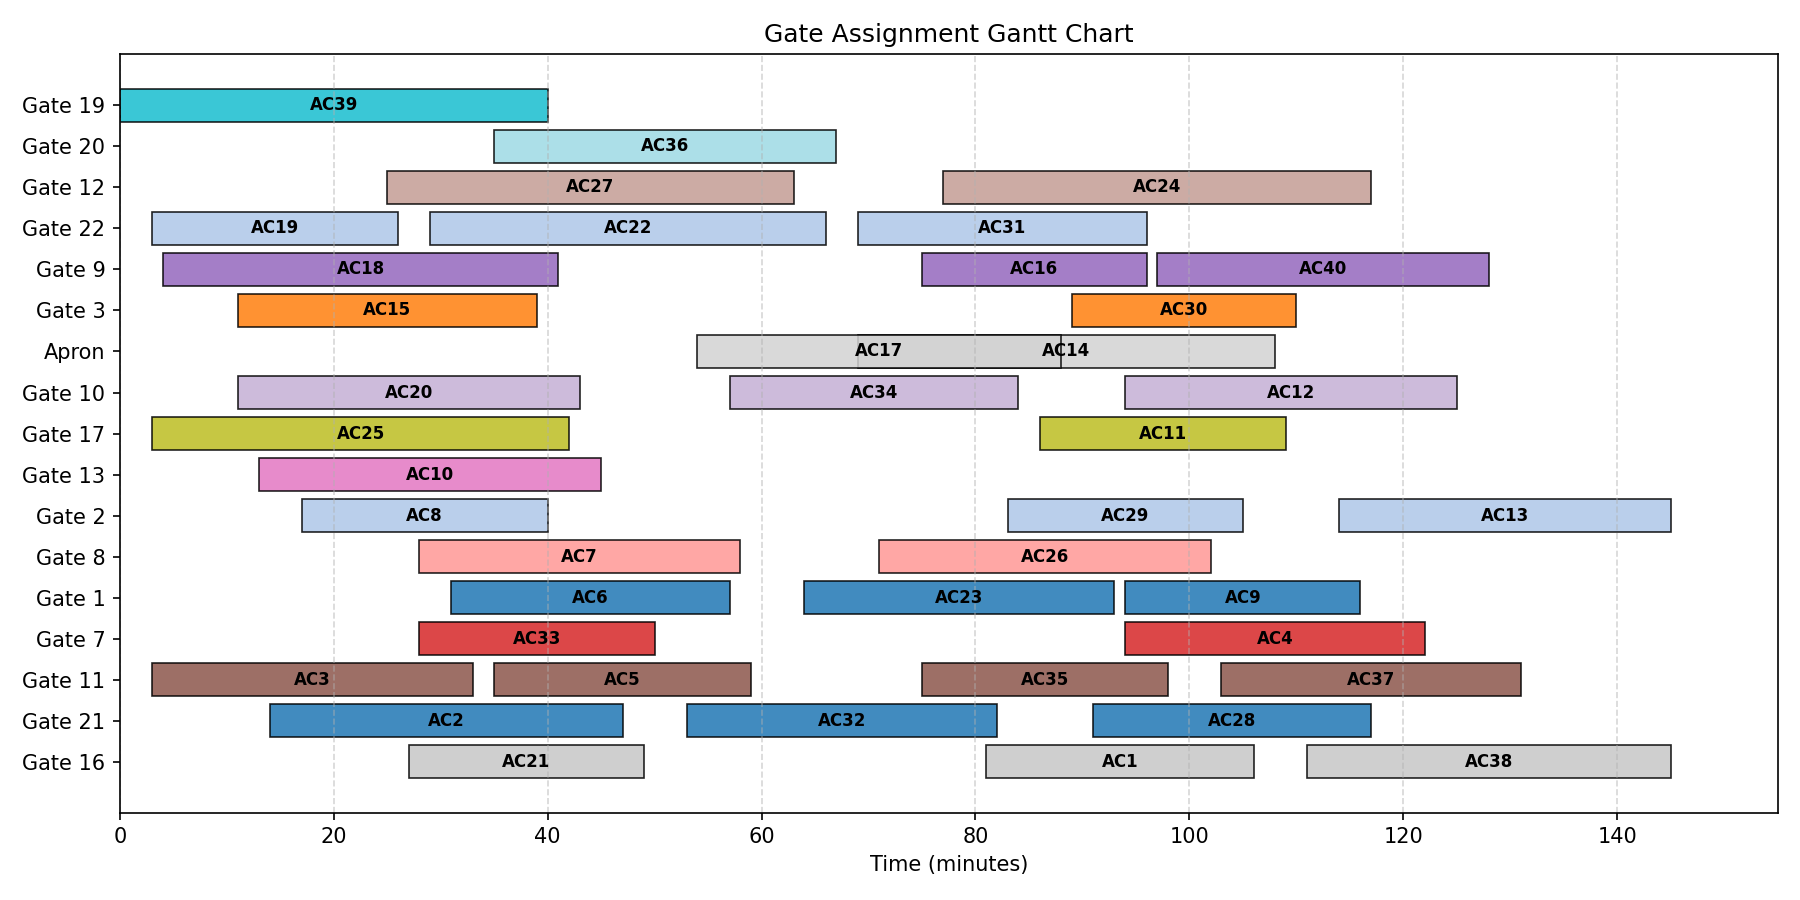
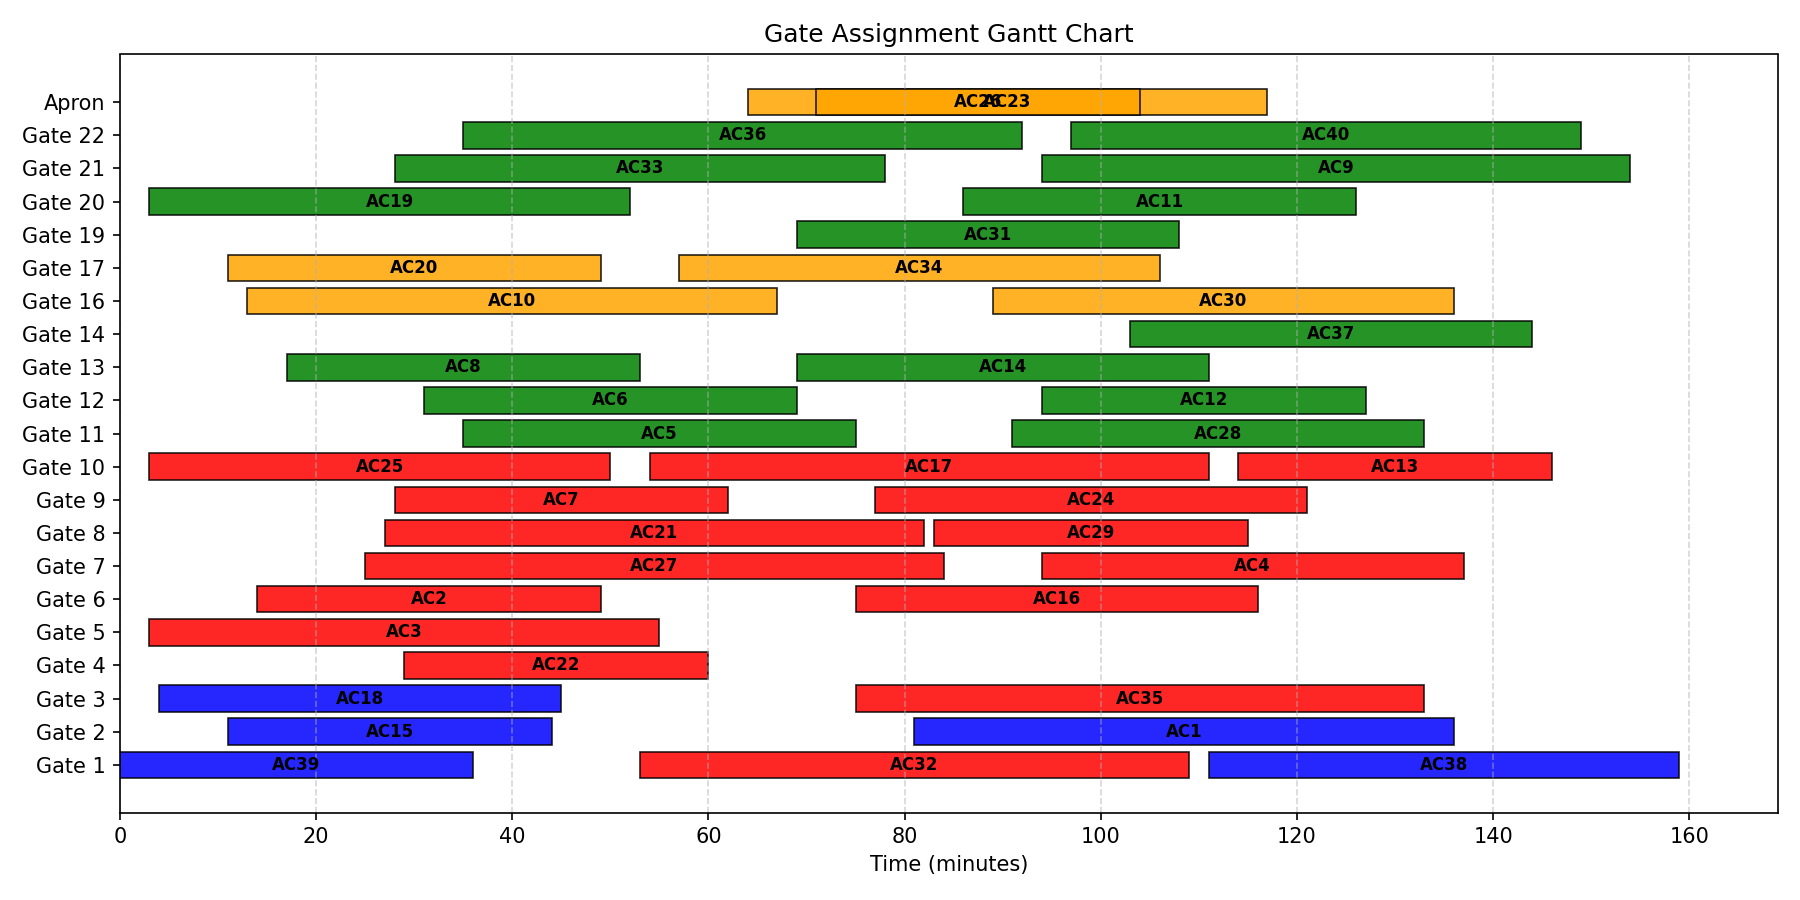
colour coded + reordered gantt chart

diff --git a/main.py b/main.py
@@ -11,7 +11,7 @@ aircraft = list(range(1, n_aircraft + 1))
 
 # Schedules
 arrival = {i: random.randint(0, 120) for i in aircraft}
-turnaround = {i: random.randint(20, 40) for i in aircraft}
+turnaround = {i: random.randint(30, 60) for i in aircraft}
 departure = {i: arrival[i] + turnaround[i] for i in aircraft}
 aircraft_size = {i: random.choices(('wide', 'narrow'), (0.3, 0.7)) for i in aircraft}
 aircraft_zone = {i: random.choice(('schengen', 'non-schengen')) for i in aircraft}
@@ -216,16 +216,23 @@ def plot_gantt(A, G, x, arrival, departure, n_gates):
     #gate_colours = {g: 'lightgrey' if g == 0 else colours[g % len(colours)] for g in G}
     gate_colours = {g: 'lightgrey' if g == "R" else colours[idx % len(colours)] 
                 for idx, g in enumerate(G)}
+    ac_colours = {('wide', 'non-schengen'): 'blue',
+                  ('narrow', 'non-schengen'): 'red',
+                  ('wide', 'schengen'): 'orange',
+                  ('narrow', 'schengen'): 'green'}
+    #ac_cat_tuple = (aircraft_size[i][0], aircraft_zone[i] for i in aircraft)
     # Draw a bar for each aircraft assignment
-    for i in A:
-        for g in G:
+    
+    for g in G:
+        for i in A:
+            ac_cat_tuple = (aircraft_size[i][0], aircraft_zone[i])
             if x[i, g].X > 0.5:
                 label = "Apron" if g == "R" else f"Gate {g}"
                 ax.barh(
                     y=label,
                     width=departure[i] - arrival[i],
                     left=arrival[i],
-                    color=gate_colours[g],
+                    color=ac_colours[ac_cat_tuple],
                     edgecolor='black',
                     linewidth=0.8,
                     alpha=0.85
@@ -251,4 +258,7 @@ def plot_gantt(A, G, x, arrival, departure, n_gates):
     plt.show()
 
 # Call after model.optimize()
-plot_gantt(aircraft, gates, x, arrival, departure, n_gates)           
+plot_gantt(aircraft, gates, x, arrival, departure, n_gates)   
+
+for i in aircraft:
+    print(i, aircraft_size[i], aircraft_zone[i])
